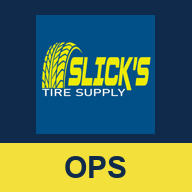
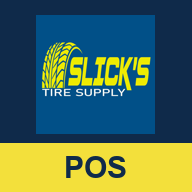
The two apps are named Slick's ERP and Slick's POS
Owner, 2026-10-12: "Slick's ERP and Slick's POS. We can finalize sales cycle tonight". The POS icon carries a yellow POS band.

Changed region(s): [[0.3125, 0.8125, 0.5625, 0.9375]]

diff --git a/web/phone/templates/phone/home.html b/web/phone/templates/phone/home.html
@@ -5,6 +5,6 @@
 {% if mine.in %}<a class="ph-big" href="/phone/in/"><span class="ms">move_to_inbox</span>Stock in{% if waiting %}<span class="pill warn">{{ waiting }} order{{ waiting|pluralize }} waiting</span>{% endif %}</a>{% endif %}
 {% if mine.out %}<a class="ph-big" href="/phone/out/"><span class="ms">outbox</span>Stock out{% if slips %}<span class="pill">{{ slips }} slip{{ slips|pluralize }} today</span>{% endif %}</a>{% endif %}
 {% if not mine.prices and not mine.stock and not mine.in and not mine.out %}<p class="note">None of the phone pages is switched on for you. Ask the System admin.</p>{% endif %}
-<p class="hint" style="text-align:center;margin-top:30px">Install this page from Chrome's menu and it becomes "Slick's Ops" on the home screen, apart from the whole system.
+<p class="hint" style="text-align:center;margin-top:30px">Install this page from Chrome's menu and it becomes "Slick's POS" on the home screen, apart from the whole system.
   {% if me.role != "scanner" %}<br><a href="/">Open the laptop site</a>{% endif %}</p>
 {% endblock %}

diff --git a/web/phone/templates/phone/base.html b/web/phone/templates/phone/base.html
@@ -7,7 +7,7 @@
 <meta name="mobile-web-app-capable" content="yes">
 <meta name="apple-mobile-web-app-capable" content="yes">
 <meta name="apple-mobile-web-app-status-bar-style" content="black-translucent">
-<meta name="apple-mobile-web-app-title" content="Slick's Ops">
+<meta name="apple-mobile-web-app-title" content="Slick's POS">
 <title>{% if is_sandbox %}SANDBOX · {% endif %}{{ title }} · Slick's</title>
 <link rel="manifest" href="/phone/manifest-ops.webmanifest" crossorigin="use-credentials">
 <link rel="icon" href="{% static 'phone/icon-ops-192.png' %}">

diff --git a/tests/test_phone.py b/tests/test_phone.py
@@ -194,7 +194,7 @@ def test_the_phone_pages_are_their_own_app_beside_the_whole_site(web, db):
     _on()
     r = web.get("/phone/manifest-ops.webmanifest")
     ops = b"".join(r.streaming_content).decode()
-    assert r.status_code == 200 and '"id": "/phone/"' in ops and '"scope": "/phone/"' in ops and "Slick's Ops" in ops and "icon-ops-192" in ops
+    assert r.status_code == 200 and '"id": "/phone/"' in ops and '"scope": "/phone/"' in ops and "Slick's POS" in ops and "icon-ops-192" in ops
     whole = b"".join(web.get("/phone/manifest.webmanifest").streaming_content).decode()
     assert '"id": "/"' in whole                                                 # two ids: Chrome installs them as two apps
     assert 'href="/phone/manifest-ops.webmanifest"' in web.get("/phone/").content.decode()
